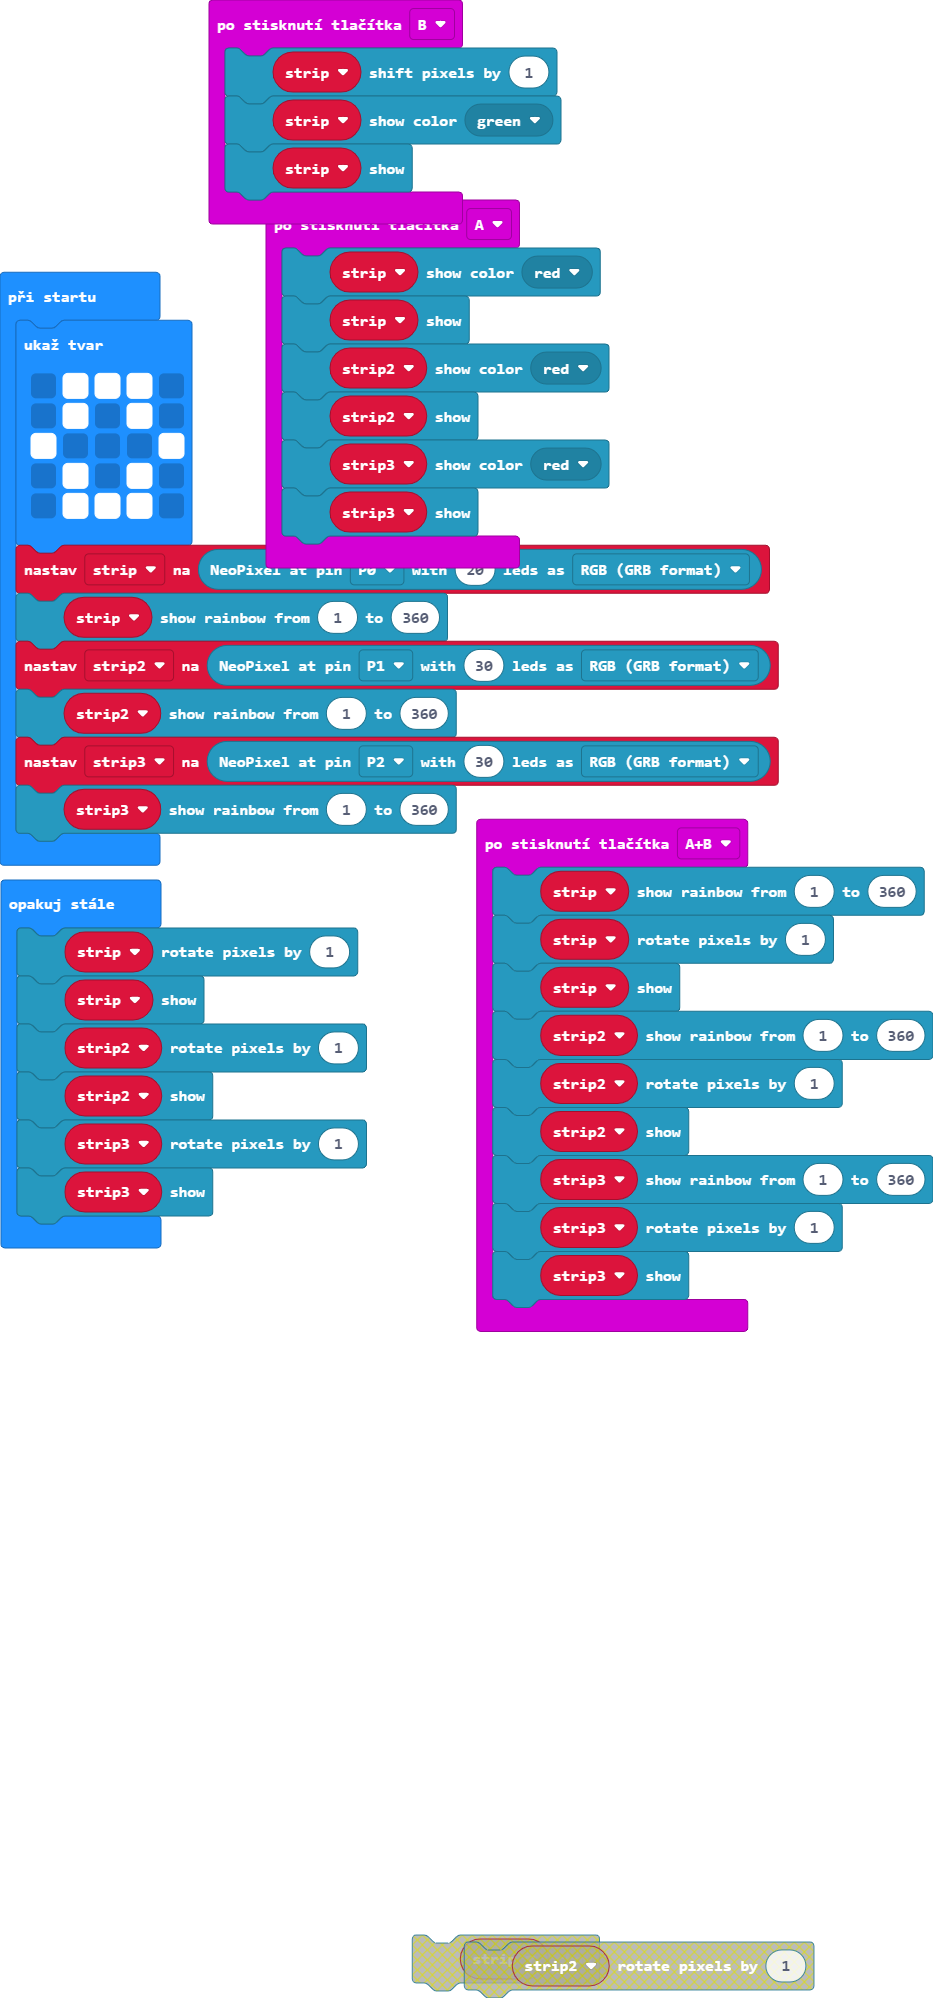
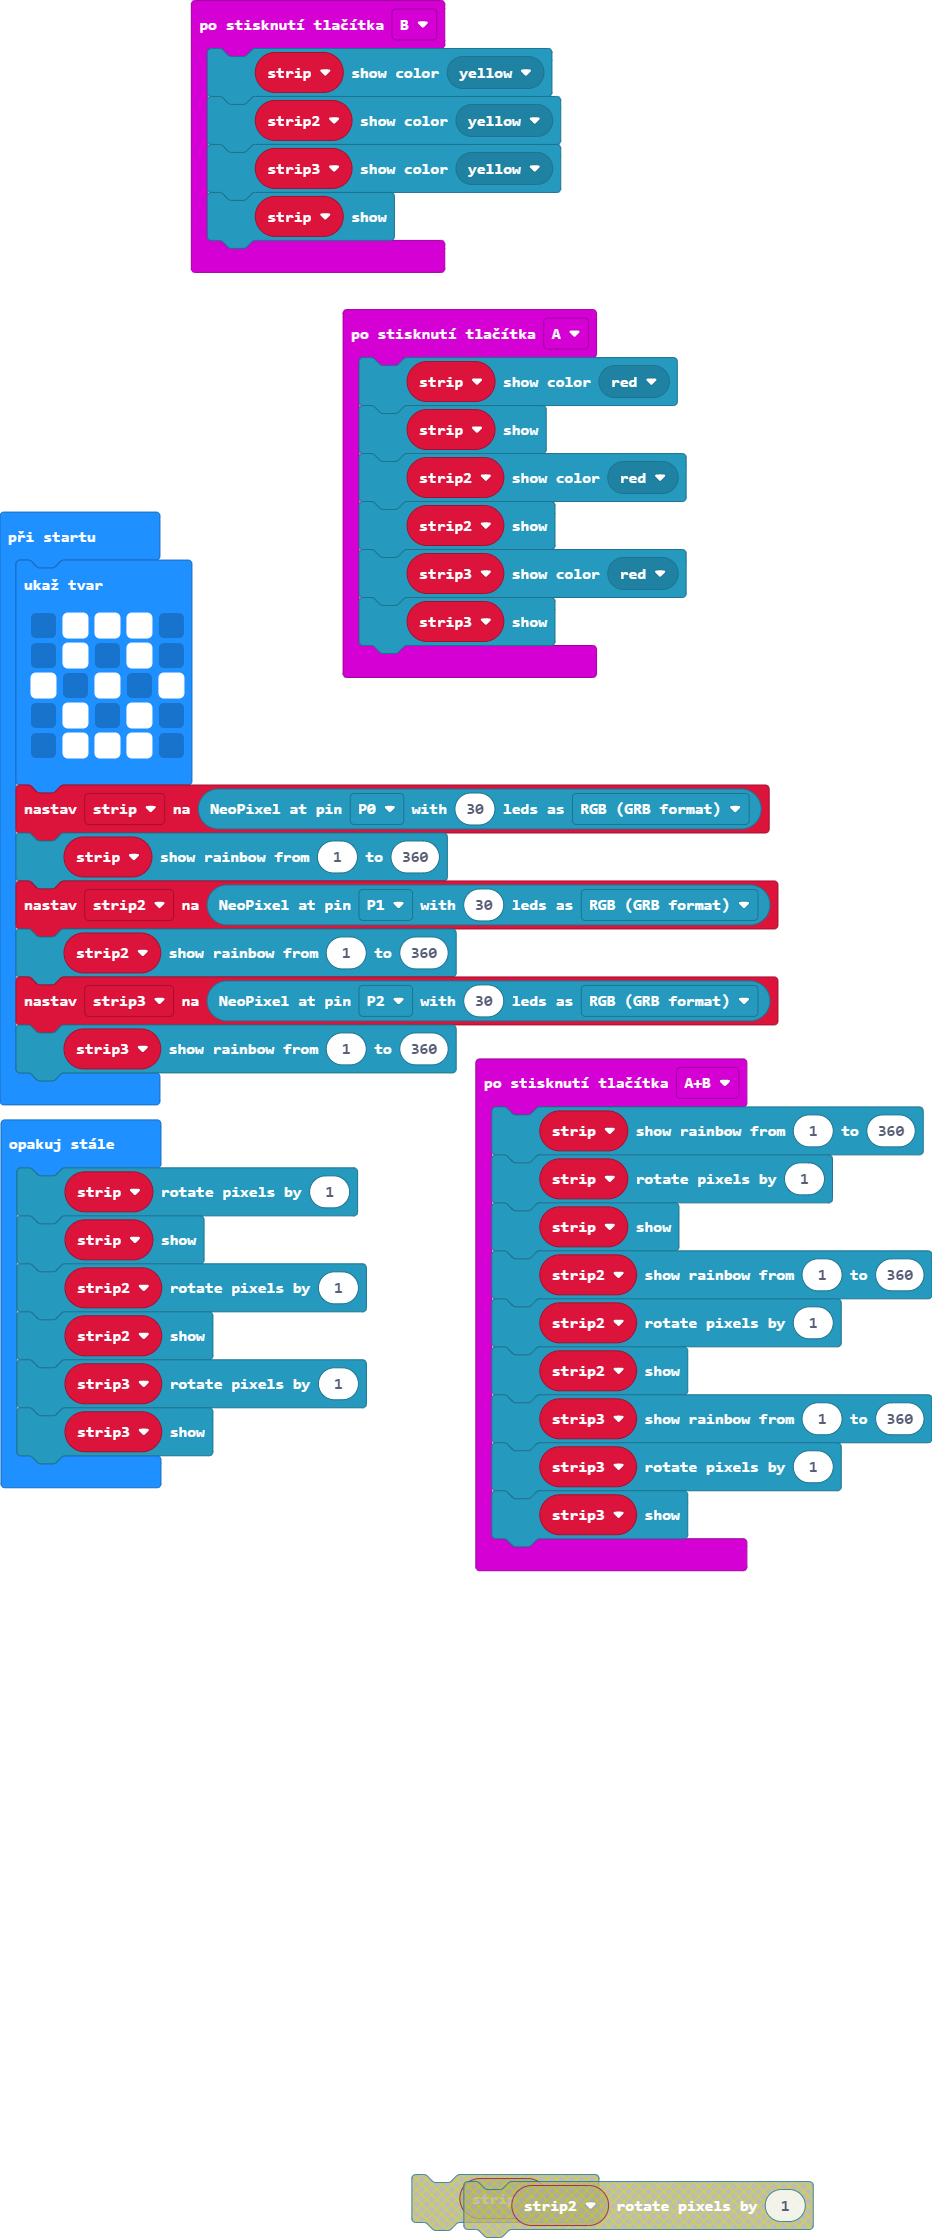
Aktualizovat main.blocks, main.ts

diff --git a/main.ts b/main.ts
@@ -18,8 +18,9 @@ input.onButtonPressed(Button.AB, function () {
     strip3.show()
 })
 input.onButtonPressed(Button.B, function () {
-    strip.shift(1)
-    strip.showColor(neopixel.colors(NeoPixelColors.Green))
+    strip.showColor(neopixel.colors(NeoPixelColors.Yellow))
+    strip2.showColor(neopixel.colors(NeoPixelColors.Yellow))
+    strip3.showColor(neopixel.colors(NeoPixelColors.Yellow))
     strip.show()
 })
 let strip3: neopixel.Strip = null
@@ -28,11 +29,11 @@ let strip: neopixel.Strip = null
 basic.showLeds(`
     . # # # .
     . # . # .
-    # . . . #
+    # . # . #
     . # . # .
     . # # # .
     `)
-strip = neopixel.create(DigitalPin.P0, 20, NeoPixelMode.RGB)
+strip = neopixel.create(DigitalPin.P0, 30, NeoPixelMode.RGB)
 strip.showRainbow(1, 360)
 strip2 = neopixel.create(DigitalPin.P1, 30, NeoPixelMode.RGB)
 strip2.showRainbow(1, 360)
